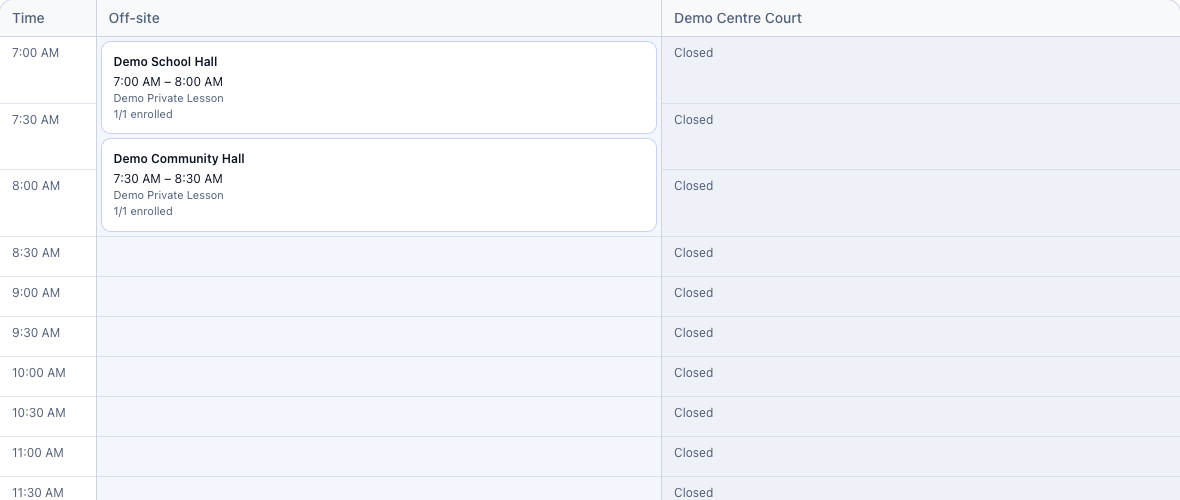
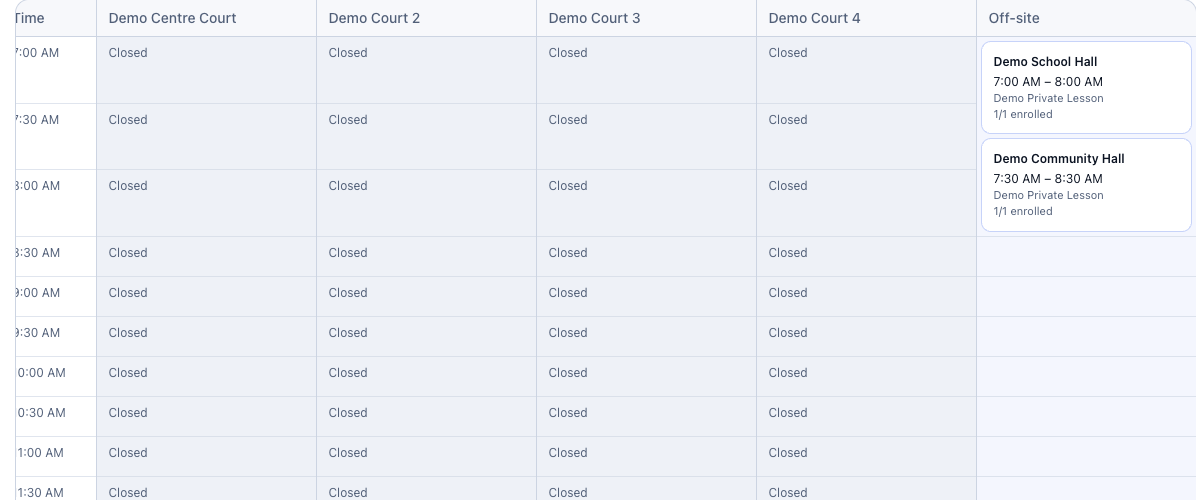
docs: show off-site after court timetable columns

diff --git a/website/offsite-lessons.md b/website/offsite-lessons.md
@@ -10,7 +10,7 @@
 2. In **Court / venue**, choose **Off-site — no centre court**.
 3. Enter **Off-site location**, for example **Demo School Hall**. Choose the lesson type, start time and duration. Off-site times can be outside centre operating hours; the lesson must finish by midnight on the same date.
 4. Check the fee and seats, add students and any assistants, then create the lesson. For recurring lessons, also check the recurrence and start/end dates.
-5. In Lesson Management, find the occurrence in the **Off-site** timetable column next to **Time**, then click its venue card for later changes. Use the normal Enrollment, Attendance and Member Fees tabs for student administration and payments.
+5. In Lesson Management, find the occurrence in the **Off-site** timetable column after the centre courts, then click its venue card for later changes. Use the normal Enrollment, Attendance and Member Fees tabs for student administration and payments.
 
 ![Fictional off-site lesson form](../images/features/offsite-lesson-create.png)
 
@@ -18,7 +18,7 @@ For example, a weekly **7:00–8:00 AM** lesson from **15–29 October 2026** cr
 
 ![Fictional recurring off-site form](../images/features/offsite-recurring-create.png)
 
-After creation, the selected date shows the lessons in the **Off-site** column beside the court timetable. Each card shows its venue, time and enrollment count; click it to inspect or edit. Early or late lessons extend the displayed hours, while centre courts outside operating hours show **Closed**. Overlapping off-site lessons at different venues remain visible together. These entries reserve no centre court.
+After creation, the selected date shows the lessons in the **Off-site** column at the right of the court timetable. Each card shows its venue, time and enrollment count; click it to inspect or edit. Early or late lessons extend the displayed hours, while centre courts outside operating hours show **Closed**. Overlapping off-site lessons at different venues remain visible together. These entries reserve no centre court.
 
 ![Fictional off-site timetable with overlapping external venues](../images/features/offsite-lessons-saved.png)
 
